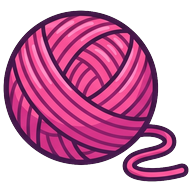
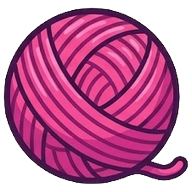
Cat Evolution: Ofrendas con 6 piezas, rayados, momias y esfinge
Combinaciones de especiales tipo Candy Crush, arte nuevo de Gemini y
dificultad recalibrada con el robot.

diff --git a/cat-evolution/index.html b/cat-evolution/index.html
@@ -209,10 +209,11 @@ h2{font-family:var(--display);font-weight:400;font-size:1.35rem;margin:0;letter-
 .blast.h{left:0;width:100%;height:12.5%}
 .blast.v{top:0;height:100%;width:12.5%}
 .blast.b{width:37.5%;height:37.5%;border-radius:50%}
+.blast.B{width:62.5%;height:62.5%;border-radius:50%}
 .blast.r{width:12.5%;height:12.5%;border-radius:50%;background:radial-gradient(circle,#fff6c4,rgba(244,194,79,0));animation:ring .6s ease-out forwards}
 .mfloat{position:absolute;z-index:6;transform:translate(-50%,-50%);pointer-events:none;font-family:var(--display);font-size:1.2rem;color:#fff;text-shadow:0 2px 0 #2a1f35,0 0 6px #2a1f35;animation:mfloat 1s ease-out forwards;white-space:nowrap}
 .mfloat.big{font-size:1.7rem;color:var(--gold)}
-.mini-pieces{display:flex;gap:6px}
+.mini-pieces{display:flex;flex-wrap:wrap;gap:6px}
 .mini-pieces svg{width:34px;height:34px}
 .bigstars{display:flex;gap:6px;font-size:3rem;color:#4a5394;line-height:1}
 .bigstars i{font-style:normal}
@@ -948,14 +949,17 @@ body.in-hab .stage{width:max(100cqw,min(calc(100cqh * .714),130cqw))}
       'Si se te acaban las ofrendas, juega Ofrendas o espera a que el altar junte más.',
       'Juega Pirámide para ganar piedra: abre hábitats nuevos y compra mejoras.',
       'Lleva hasta 3 gatos a los minijuegos: cada uno te da un poder, y los que tienen más mutaciones traen más cargas.',
-      'En Ofrendas, 5 piezas en línea crean hierba gatera: borra todas las piezas de un tipo.',
+      'En Ofrendas, 5 piezas en línea crean una esfinge: borra todas las piezas de un tipo.',
     ];
     return tips[S.tip % tips.length];
   }
 
   // ================= Arte final (imágenes de Gemini; si falta una, se usa el dibujo con código) =================
   const ART = {};
-  const PIECE_ART = ['pescado', 'esqueleto', 'raton', 'pollo', 'estambre'];
+  const PIECE_ART = ['pescado', 'raton', 'pollo', 'estambre', 'escarabajo', 'perico'];
+  const STRIPE_ART = ['esqueleto', 'queso', 'pierna', 'hilo', 'escarabajo_oro', 'perico_color'];   // rayado (4 en línea)
+  const MUMMY_ART = PIECE_ART.map(n => n + '_momia');   // explosión (L o T)
+  const PIECE_COLOR = ['#4a9be8', '#b4a7d6', '#e0913a', '#ef5d8f', '#3fae5a', '#f2cf3a'];   // halo detrás de los especiales
   const BLOCK_ART = ['bloque_caliza', 'bloque_granito', 'bloque_lapislazuli', 'bloque_turquesa', 'bloque_oro', 'bloque_basalto'];
   const artURL = n => (ART[n] && ART[n].ready ? ART[n].src : null);
   function loadArt() {
@@ -2241,8 +2245,8 @@ body.in-hab .stage{width:max(100cqw,min(calc(100cqh * .714),130cqw))}
   }
 
   // ================= Motor de Ofrendas (match-3), sin DOM para poder probarlo =================
-  // Pieza = { k: tipo 0..4 (−1 = hierba gatera), sp: null | 'h' (fila) | 'v' (columna) | 'b' (explosión 3×3) | 'r' (hierba gatera) }
-  const MN = 8, NK = 5;
+  // Pieza = { k: tipo 0..5 (−1 = esfinge), sp: null | 'h' (fila) | 'v' (columna) | 'b' (explosión 3×3) | 'r' (esfinge) }
+  const MN = 8, NK = 6;
   function mulberry32(a) { return function () { a |= 0; a = a + 0x6D2B79F5 | 0; let t = Math.imul(a ^ a >>> 15, 1 | a); t = t + Math.imul(t ^ t >>> 7, 61 | t) ^ t; return ((t ^ t >>> 14) >>> 0) / 4294967296; }; }
 
   function findGroups(g) {
@@ -2338,19 +2342,40 @@ body.in-hab .stage{width:max(100cqw,min(calc(100cqh * .714),130cqw))}
     return true;
   }
 
+  // Dos especiales juntos, como en Candy Crush. Ya intercambiados: g[b] es la pieza que se movió (ahí es el centro).
+  //   esfinge + esfinge: todo el tablero · esfinge + rayado/explosión: todas las de ese tipo se vuelven ese especial
+  //   rayado + rayado: cruz ('x') · rayado + explosión: cruz de 3 de ancho ('X') · explosión + explosión: 5×5 ('B')
+  function comboSwap(g, a, b) {
+    const P = g[b], Q = g[a];
+    if (P.sp === 'r' && Q.sp === 'r') return { forced: new Set(g.map((_, i) => i)) };
+    if (P.sp === 'r' || Q.sp === 'r') {
+      const ri = P.sp === 'r' ? b : a, X = g[ri === b ? a : b], convert = [];
+      g[ri]._fired = true;
+      g.forEach((u, i) => {
+        if (!u || u.k !== X.k) return;
+        u.sp = X.sp === 'b' ? 'b' : convert.length % 2 ? 'v' : 'h';
+        convert.push(i);
+      });
+      return { forced: new Set([ri, ...convert]), convert };
+    }
+    const nb = (P.sp === 'b') + (Q.sp === 'b');
+    Q._fired = true;
+    P.sp = nb === 2 ? 'B' : nb === 1 ? 'X' : 'x';
+    return { forced: new Set([a, b]) };
+  }
+
   // Intenta un intercambio. Devuelve null si no hace nada, o el primer paso de la jugada.
   function trySwap(g, a, b) {
     const A = g[a], B = g[b];
     if (!A || !B) return null;
-    if (A.sp === 'r' || B.sp === 'r') {
+    if ((A.sp === 'r') !== (B.sp === 'r') && !(A.sp && B.sp)) {
       g[a] = B; g[b] = A;
-      if (A.sp === 'r' && B.sp === 'r') return { forced: new Set(g.map((_, i) => i)) };
       const ri = A.sp === 'r' ? b : a;
       g[ri]._target = (A.sp === 'r' ? B : A).k;
       return { forced: new Set([ri]) };
     }
     g[a] = B; g[b] = A;
-    if (A.sp && B.sp) return { forced: new Set([a, b]) };
+    if (A.sp && B.sp) return comboSwap(g, a, b);
     if (findGroups(g).length) return { swapPair: [a, b] };
     g[a] = A; g[b] = B;
     return null;
@@ -2387,11 +2412,18 @@ body.in-hab .stage{width:max(100cqw,min(calc(100cqh * .714),130cqw))}
       const i = queue.pop(), t = g[i];
       if (!t || !t.sp || t._fired) continue;
       t._fired = true;
-      fired.push({ i, sp: t.sp });
       const r = Math.floor(i / MN), c = i % MN, area = [];
-      if (t.sp === 'h') for (let x = 0; x < MN; x++) area.push(r * MN + x);
-      if (t.sp === 'v') for (let y = 0; y < MN; y++) area.push(y * MN + c);
-      if (t.sp === 'b') for (let y = r - 1; y <= r + 1; y++) for (let x = c - 1; x <= c + 1; x++) if (y >= 0 && y < MN && x >= 0 && x < MN) area.push(y * MN + x);
+      const inB = (y, x) => y >= 0 && y < MN && x >= 0 && x < MN;
+      const row = y => { if (inB(y, 0)) { fired.push({ i: y * MN + c, sp: 'h' }); for (let x = 0; x < MN; x++) area.push(y * MN + x); } };
+      const col = x => { if (inB(0, x)) { fired.push({ i: r * MN + x, sp: 'v' }); for (let y = 0; y < MN; y++) area.push(y * MN + x); } };
+      const box = d => { for (let y = r - d; y <= r + d; y++) for (let x = c - d; x <= c + d; x++) if (inB(y, x)) area.push(y * MN + x); };
+      if (t.sp === 'h') row(r);
+      if (t.sp === 'v') col(c);
+      if (t.sp === 'x') { row(r); col(c); }
+      if (t.sp === 'X') for (let d = -1; d <= 1; d++) { row(r + d); col(c + d); }
+      if (t.sp === 'b' || t.sp === 'B' || t.sp === 'r') fired.push({ i, sp: t.sp });
+      if (t.sp === 'b') box(1);
+      if (t.sp === 'B') box(2);
       if (t.sp === 'r') { const kk = t._target !== undefined ? t._target : mostCommonKind(g); g.forEach((u, j) => { if (u && u.k === kk) area.push(j); }); }
       for (const j of area) if (!clear.has(j) && !createdAt.has(j)) { clear.add(j); queue.push(j); }
     }
@@ -2421,21 +2453,21 @@ body.in-hab .stage{width:max(100cqw,min(calc(100cqh * .714),130cqw))}
   ];
   function levelDef(n) {
     // niveles especiales: desbloquean un cruce secreto
-    if (n === SECRET.calico.level) return { n, moves: 30, goal: 'collect', need: { 0: 24, 1: 24, 4: 24 }, special: 'calico' };
-    if (n === SECRET.carey.level) return { n, moves: 32, goal: 'collect', need: { 0: 28, 2: 28, 3: 28 }, special: 'carey' };
+    if (n === SECRET.calico.level) return { n, moves: 30, goal: 'collect', need: { 0: 24, 3: 24, 5: 24 }, special: 'calico' };
+    if (n === SECRET.carey.level) return { n, moves: 32, goal: 'collect', need: { 0: 28, 1: 28, 2: 28 }, special: 'carey' };
     const rng = mulberry32(n * 9301 + 49297);
-    const moves = Math.max(16, 24 - Math.floor(n / 2));
+    const moves = Math.max(19, 26 - Math.floor(n / 2));
     if (n >= 3 && n % 3 === 0) {
       const f = SAND_SHAPES[(n / 3 - 1) % SAND_SHAPES.length];
       const sand = [];
       for (let r = 0; r < MN; r++) for (let c = 0; c < MN; c++) if (f(r, c)) sand.push(r * MN + c);
-      return { n, moves: moves + 6, goal: 'sand', sand };
+      return { n, moves: moves + 20, goal: 'sand', sand };
     }
     const kinds = n < 4 ? 1 : 2;
     const picks = [];
     while (picks.length < kinds) { const k = Math.floor(rng() * NK); if (!picks.includes(k)) picks.push(k); }
     const need = {};
-    picks.forEach(k => { need[k] = kinds === 1 ? Math.min(30, 12 + 2 * n) : Math.min(32, 10 + 2 * n); });
+    picks.forEach(k => { need[k] = kinds === 1 ? Math.min(26, 10 + 2 * n) : Math.min(22, 8 + Math.round(1.4 * n)); });
     return { n, moves, goal: 'collect', need };
   }
   const starsFor = (left, total) => (left / total >= .3 ? 3 : left / total >= .12 ? 2 : 1);
@@ -2447,7 +2479,7 @@ body.in-hab .stage{width:max(100cqw,min(calc(100cqh * .714),130cqw))}
       caricatura: { key: 'moves', name: 'Ronroneo', desc: '+2 movimientos al empezar' },
       elegante: { key: 'claw', name: 'Zarpazo', desc: 'Rompe la pieza que toques' },
       egipcio: { key: 'ra', name: 'Bendición de Ra', desc: 'Vuelve explosiva la pieza que toques' },
-      mistico: { key: 'bastet', name: 'Hierba mágica', desc: 'Convierte la pieza que toques en hierba gatera' },
+      mistico: { key: 'bastet', name: 'Llamado de la esfinge', desc: 'Convierte la pieza que toques en esfinge' },
       artico: { key: 'frost', name: 'Escarcha', desc: 'Congela la pieza que toques: al borrarse, borra su fila' },
     },
     pyr: {
@@ -2527,13 +2559,16 @@ body.in-hab .stage{width:max(100cqw,min(calc(100cqh * .714),130cqw))}
   // ================= Ofrendas: piezas, pantalla y animaciones =================
   const MK = [
     { name: 'Pescado', plural: 'pescados' },
-    { name: 'Esqueleto de pescado', plural: 'esqueletos' },
     { name: 'Ratón', plural: 'ratones' },
     { name: 'Pollo rostizado', plural: 'pollos' },
     { name: 'Bola de estambre', plural: 'estambres' },
+    { name: 'Escarabajo', plural: 'escarabajos' },
+    { name: 'Perico', plural: 'pericos' },
   ];
   function pieceArt(k) {
     const ink = '#2a1f35', bone = '#f3ead8';
+    if (k >= 4) return `<circle cx="50" cy="50" r="38" fill="${PIECE_COLOR[k]}" stroke="${ink}" stroke-width="4"/><ellipse cx="38" cy="34" rx="12" ry="5" fill="#fff" opacity=".45"/>`;
+    k = [0, 2, 3, 4][k];
     if (k === 0) return `<path d="M72 50L94 28V72Z" fill="#4a9be8" stroke="${ink}" stroke-width="4" stroke-linejoin="round"/><path d="M8 50Q40 16 78 50Q40 84 8 50Z" fill="#4a9be8" stroke="${ink}" stroke-width="4"/><path d="M14 54Q40 68 72 54" stroke="#bfe0ff" stroke-width="5" fill="none" stroke-linecap="round"/><circle cx="25" cy="45" r="5" fill="${ink}"/><path d="M38 34q8 16 0 32" stroke="#2a6fbf" stroke-width="4" fill="none" stroke-linecap="round"/><ellipse cx="48" cy="36" rx="10" ry="4" fill="#fff" opacity=".5"/>`;
     if (k === 1) return `<path d="M30 50H76" stroke="${ink}" stroke-width="11" stroke-linecap="round"/><path d="M30 50H76" stroke="${bone}" stroke-width="5" stroke-linecap="round"/>
       ${[42, 53, 64].map(x => `<path d="M${x} 50Q${x + 5} 34 ${x} 24M${x} 50Q${x + 5} 66 ${x} 76" stroke="${ink}" stroke-width="8" fill="none" stroke-linecap="round"/><path d="M${x} 50Q${x + 5} 34 ${x} 24M${x} 50Q${x + 5} 66 ${x} 76" stroke="${bone}" stroke-width="3.5" fill="none" stroke-linecap="round"/>`).join('')}
@@ -2551,10 +2586,10 @@ body.in-hab .stage{width:max(100cqw,min(calc(100cqh * .714),130cqw))}
       <circle cx="48" cy="50" r="36" fill="#ef5d8f" stroke="${ink}" stroke-width="4"/>
       <path d="M20 38Q48 26 76 42M14 54Q48 44 82 58M22 72Q48 62 74 76M36 18Q24 50 36 82M58 16Q72 50 60 84" stroke="#b93a6a" stroke-width="3.5" fill="none" stroke-linecap="round"/><ellipse cx="34" cy="30" rx="10" ry="5" fill="#fff" opacity=".45"/>`;
   }
-  // Hierba gatera: la pieza especial que borra todas las piezas de un tipo
+  // Esfinge (dibujo de respaldo): la pieza especial que borra todas las piezas de un tipo
   function bastetArt() {
-    const ink = '#2a1f35', cols = ['#4a9be8', '#f3ead8', '#b4a7d6', '#e0913a', '#ef5d8f'];
-    const ring = cols.map((c, i) => `<circle cx="50" cy="52" r="42" fill="none" stroke="${c}" stroke-width="8" stroke-dasharray="52.8 211.1" stroke-dashoffset="${-i * 52.8}"/>`).join('');
+    const ink = '#2a1f35', cols = PIECE_COLOR;
+    const ring = cols.map((c, i) => `<circle cx="50" cy="52" r="42" fill="none" stroke="${c}" stroke-width="8" stroke-dasharray="44 220" stroke-dashoffset="${-i * 44}"/>`).join('');
     const leaf = (x, y, r) => `<ellipse cx="${x}" cy="${y}" rx="13" ry="7" transform="rotate(${r} ${x} ${y})" fill="#5cc65a" stroke="${ink}" stroke-width="3"/>`;
     return `${ring}<path d="M50 84V26" stroke="${ink}" stroke-width="7" stroke-linecap="round"/><path d="M50 84V26" stroke="#3f9b5a" stroke-width="3" stroke-linecap="round"/>
       ${leaf(38, 66, -30)}${leaf(62, 60, 30)}${leaf(39, 46, -40)}${leaf(61, 40, 40)}${leaf(50, 26, -90)}${star4(74, 26, 6, '#fff6c4')}${star4(26, 34, 4, '#fff6c4')}`;
@@ -2565,16 +2600,19 @@ body.in-hab .stage{width:max(100cqw,min(calc(100cqh * .714),130cqw))}
     if (TILE_CACHE[key]) return TILE_CACHE[key];
     const ink = '#2a1f35';
     let back = '', front = '';
+    // halo del color de la pieza, para saber de qué tipo es cada especial
+    const halo = k >= 0 && sp ? `<circle cx="50" cy="50" r="47" fill="${PIECE_COLOR[k]}" opacity=".5"/>` : '';
     if (sp === 'h' || sp === 'v') {
       const rot = sp === 'v' ? ' transform="rotate(90 50 50)"' : '';
-      back = `<rect x="0" y="40" width="100" height="20" rx="10" fill="#fff" opacity=".55"${rot}/>`;
+      back = `${halo}<rect x="0" y="40" width="100" height="20" rx="10" fill="#fff" opacity=".55"${rot}/>`;
       front = `<path d="M2 50l14-12v24zM98 50l-14-12v24z" fill="#fff" stroke="${ink}" stroke-width="3" stroke-linejoin="round"${rot}/>`;
     }
     if (sp === 'b') {
-      back = `<circle cx="50" cy="50" r="48" fill="#ffe08a" opacity=".55"/><circle cx="50" cy="50" r="48" fill="none" stroke="#fff6c4" stroke-width="4" stroke-dasharray="6 8"/>`;
+      back = `${halo}<circle cx="50" cy="50" r="48" fill="none" stroke="#fff6c4" stroke-width="4" stroke-dasharray="6 8"/>`;
       front = `<path d="M84 8l3 8 8 3-8 3-3 8-3-8-8-3 8-3z" fill="#fff" stroke="${ink}" stroke-width="2"/>`;
     }
-    const u = artURL(k >= 0 ? PIECE_ART[k] : 'hierba_gatera');
+    const u = k < 0 ? artURL('pieza_esfinge')
+      : (sp === 'h' || sp === 'v' ? artURL(STRIPE_ART[k]) : sp === 'b' ? artURL(MUMMY_ART[k]) : null) || artURL(PIECE_ART[k]);
     const art = u ? `<image href="${u}" x="3" y="3" width="94" height="94"/>` : (k >= 0 ? pieceArt(k) : bastetArt());
     return (TILE_CACHE[key] = `<svg viewBox="0 0 100 100" aria-hidden="true">${back}${art}${front}</svg>`);
   }
@@ -2744,6 +2782,12 @@ body.in-hab .stage{width:max(100cqw,min(calc(100cqh * .714),130cqw))}
     await wait(180);
     if (M !== mm) return;
     M.moves--; updateMatchHud();
+    if (res.convert) {
+      // esfinge + especial: primero se ven todas las piezas convertidas y luego explotan
+      res.convert.forEach(i => { const el = M.els[i]; if (el) { el.innerHTML = pieceSVG(M.grid[i].k, M.grid[i].sp); el.classList.remove('born'); void el.offsetWidth; el.classList.add('born'); } });
+      sfx.meow(); await wait(450);
+      if (M !== mm) return;
+    }
     await runCascade(resolveStep(M.grid, M.rng, res.swapPair, res.forced), mm);
   }
   async function runCascade(step, mm) {
@@ -2829,6 +2873,7 @@ body.in-hab .stage{width:max(100cqw,min(calc(100cqh * .714),130cqw))}
     if (f.sp === 'h') { d.style.top = r * 12.5 + '%'; }
     if (f.sp === 'v') { d.style.left = c * 12.5 + '%'; }
     if (f.sp === 'b') { d.style.left = (c - 1) * 12.5 + '%'; d.style.top = (r - 1) * 12.5 + '%'; }
+    if (f.sp === 'B') { d.style.left = (c - 2) * 12.5 + '%'; d.style.top = (r - 2) * 12.5 + '%'; }
     if (f.sp === 'r') { d.style.left = c * 12.5 + '%'; d.style.top = r * 12.5 + '%'; }
     board.appendChild(d); setTimeout(() => d.remove(), 600);
   }
@@ -2888,7 +2933,7 @@ body.in-hab .stage{width:max(100cqw,min(calc(100cqh * .714),130cqw))}
     $('tab-juegos').innerHTML = `<div class="block">
       <h2>Juegos del templo</h2>
       <div class="game"><b>Ofrendas</b>
-        <div class="mini-pieces">${[0, 1, 2, 3, 4].map(k => pieceSVG(k)).join('')}</div>
+        <div class="mini-pieces">${PIECE_ART.map((_, k) => pieceSVG(k)).join('')}</div>
         <p>Junta 3 o más piezas iguales. Cada nivel superado da ofrendas, y los niveles pares te regalan una estatua la primera vez.</p>
         <span class="note" style="text-align:left">Vas en el nivel ${n} · ${stars} ★ ganadas</span>
         <button class="btn gold" id="play-match" type="button">Jugar nivel ${n}</button></div>
@@ -2896,7 +2941,7 @@ body.in-hab .stage{width:max(100cqw,min(calc(100cqh * .714),130cqw))}
         <p>Acomoda bloques de piedra y completa filas o columnas. Cada línea da 1 de piedra para mejorar el templo, y cada ${STATUE_EVERY} líneas en una partida aparece una estatua.</p>
         <span class="note" style="text-align:left">Récord: ${S.pyrBest || 0} puntos · tienes ${S.stone || 0} de piedra</span>
         <div class="actions"><button class="btn" id="up-from-games" type="button">Mejoras</button><button class="btn gold" id="play-pyr" type="button">Jugar Pirámide</button></div></div>
-      <div class="game"><b>Poderes de tus gatos</b><p>Antes de jugar eliges hasta 3 gatos. Los comunes dan movimientos extra o un cambio de bloques; los Elegantes rompen piezas; los Egipcios crean explosivos o bloques de 1×1; los Místicos crean hierba gatera o barren filas enteras; los Árticos congelan piezas o tiran avalanchas. Cada mutación suma cargas.</p></div>
+      <div class="game"><b>Poderes de tus gatos</b><p>Antes de jugar eliges hasta 3 gatos. Los comunes dan movimientos extra o un cambio de bloques; los Elegantes rompen piezas; los Egipcios crean explosivos o bloques de 1×1; los Místicos crean esfinges o barren filas enteras; los Árticos congelan piezas o tiran avalanchas. Cada mutación suma cargas.</p></div>
     </div>`;
     $('play-match').addEventListener('click', () => pickTeam('match', t => openMatch(S.match.level, t)));
     $('play-pyr').addEventListener('click', () => pickTeam('pyr', openPyramid));

diff --git a/cat-evolution/herramientas/procesar_arte.py b/cat-evolution/herramientas/procesar_arte.py
@@ -28,7 +28,10 @@ ORIGEN = Path(_args[0]) if _args else Path('G:/Mi unidad/videogame/arte')
 HOJAS = {
     'hoja_gatos': ['gato_frente', 'gato_lado_1', 'gato_estira', 'gato_acostado', 'gato_sentado_lado', 'gato_agazapado'],
     'hoja_gatos_2': ['gato_lado_2', 'gato_colgado', 'gato_dormido'],
-    'hoja_ofrendas': ['pescado', 'esqueleto', 'raton', 'pollo', 'estambre', 'hierba_gatera'],
+    # Ofrendas: 6 piezas normales, su rayado (4 en línea) y su momia (explosión L o T), en el mismo orden
+    'hoja_piezas': ['pescado', 'raton', 'pollo', 'estambre', 'escarabajo', 'perico'],
+    'hoja_piezas_rayadas': ['esqueleto', 'queso', 'pierna', 'hilo', 'escarabajo_oro', 'perico_color'],
+    'hoja_piezas_momia': ['pescado_momia', 'raton_momia', 'pollo_momia', 'estambre_momia', 'escarabajo_momia', 'perico_momia'],
     'hoja_piramide': ['bloque_caliza', 'bloque_granito', 'bloque_lapislazuli', 'bloque_turquesa', 'bloque_oro', 'bloque_basalto', 'icono_piedra'],
     'hoja_egipto': ['esfinge', 'esfinge_piedra', 'sarcofago', 'altar', 'obelisco', 'estandarte', 'estanque', 'icono_ofrenda'],
     'hoja_casa_nieve': ['arbol_gato', 'canasta', 'plato', 'muneco_nieve', 'iglu', 'fogata'],
@@ -77,8 +80,8 @@ ASSETS = {
     # Abuelo Colmillo (el de ojos brillantes se recorta con el mismo encuadre que el normal)
     'abuelo': ('recorte', 512), 'abuelo_brillo': ('par', 512),
     # piezas de Ofrendas
-    'pescado': ('cuadro', 192), 'esqueleto': ('cuadro', 192), 'raton': ('cuadro', 192),
-    'pollo': ('cuadro', 192), 'estambre': ('cuadro', 192), 'hierba_gatera': ('cuadro', 192),
+    **{n: ('cuadro', 192) for h in ('hoja_piezas', 'hoja_piezas_rayadas', 'hoja_piezas_momia') for n in HOJAS[h]},
+    'pieza_esfinge': ('cuadro', 192),
     # bloques de Pirámide
     'bloque_caliza': ('cuadro', 160), 'bloque_granito': ('cuadro', 160), 'bloque_lapislazuli': ('cuadro', 160),
     'bloque_turquesa': ('cuadro', 160), 'bloque_oro': ('cuadro', 160), 'bloque_basalto': ('cuadro', 160),
